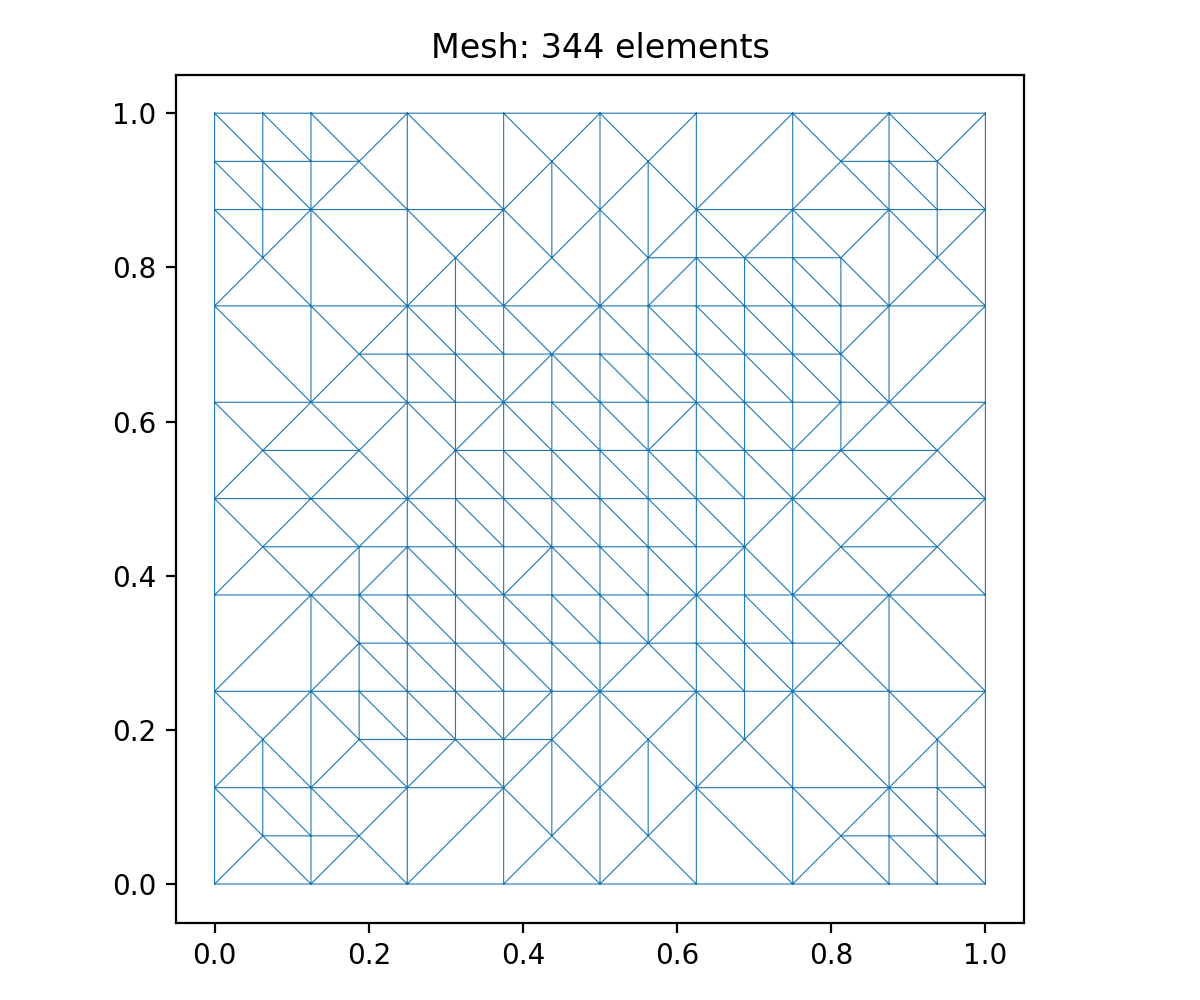
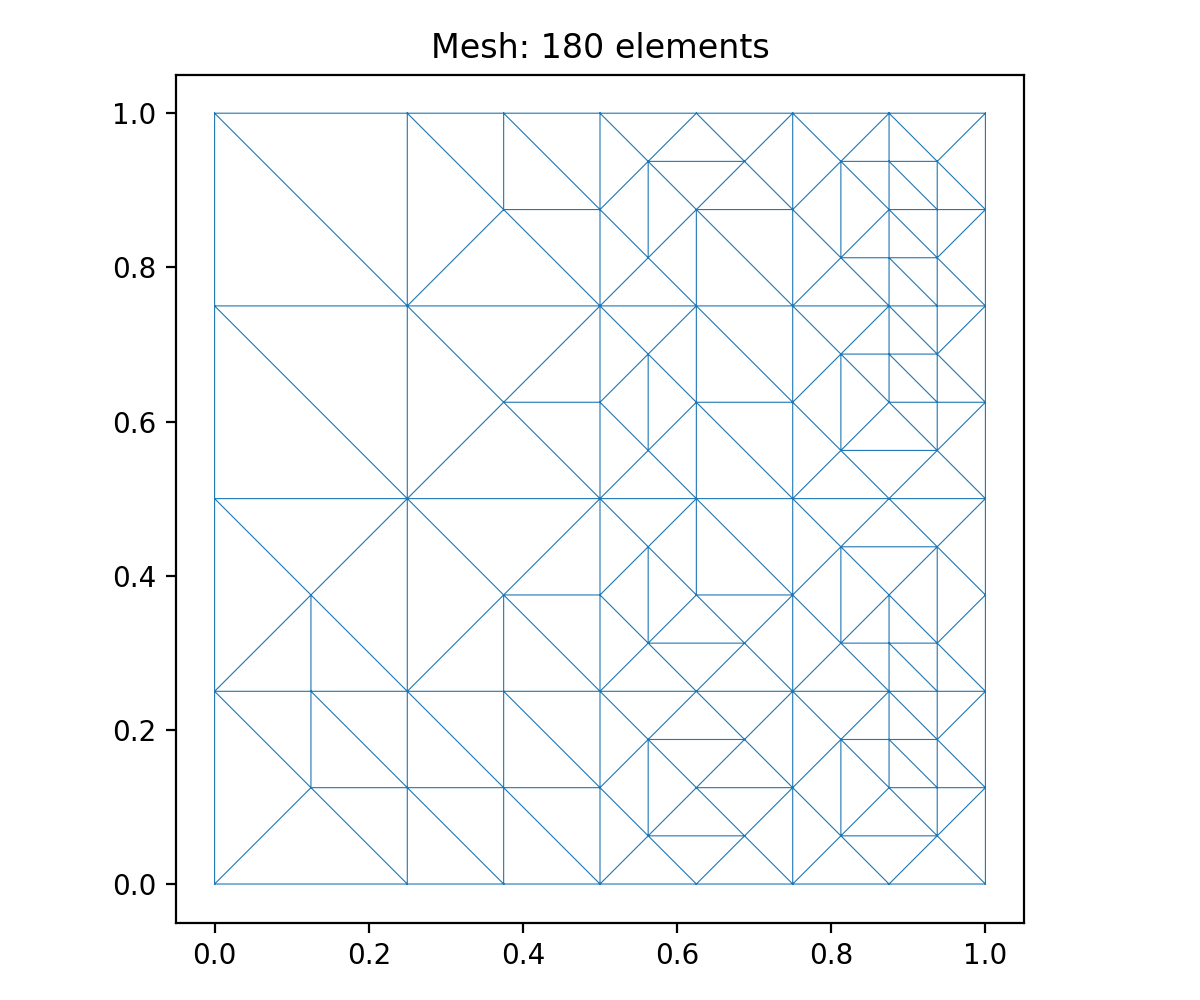
Add high oscillation right hand side

diff --git a/experiments/run_square_quadrature.py b/experiments/run_square_quadrature.py
@@ -1,7 +1,7 @@
 from pathlib import Path
 from afem.core.config import AFEMConfig
 from afem.core.afem import run_afem
-from afem.problems.rhs import manufactured_sine_2d
+from afem.problems.rhs import manufactured_sine_2d, high_oscillation
 
 if __name__ == "__main__":
     cfg = AFEMConfig(
@@ -15,4 +15,4 @@ if __name__ == "__main__":
         quadrature_rule="midpoint",
         plot_every=3,
     )
-    run_afem(cfg, manufactured_sine_2d)
+    run_afem(cfg, high_oscillation)

diff --git a/afem/problems/rhs.py b/afem/problems/rhs.py
@@ -18,3 +18,7 @@ def manufactured_sine_2d(x: Array) -> Array:
 def manufactured_sine_3d(x: Array) -> Array:
     """RHS for exact u=prod_i sin(pi x_i) on unit cube."""
     return 3.0 * np.pi**2 * np.sin(np.pi * x[0]) * np.sin(np.pi * x[1]) * np.sin(np.pi * x[2])
+
+def high_oscillation(x: Array) -> Array:
+    """f(x,y) = |sin(2^l * 3 * pi)|"""
+    return np.abs(np.sin(np.pi * 2**5 * 3.0 * x[0]))
